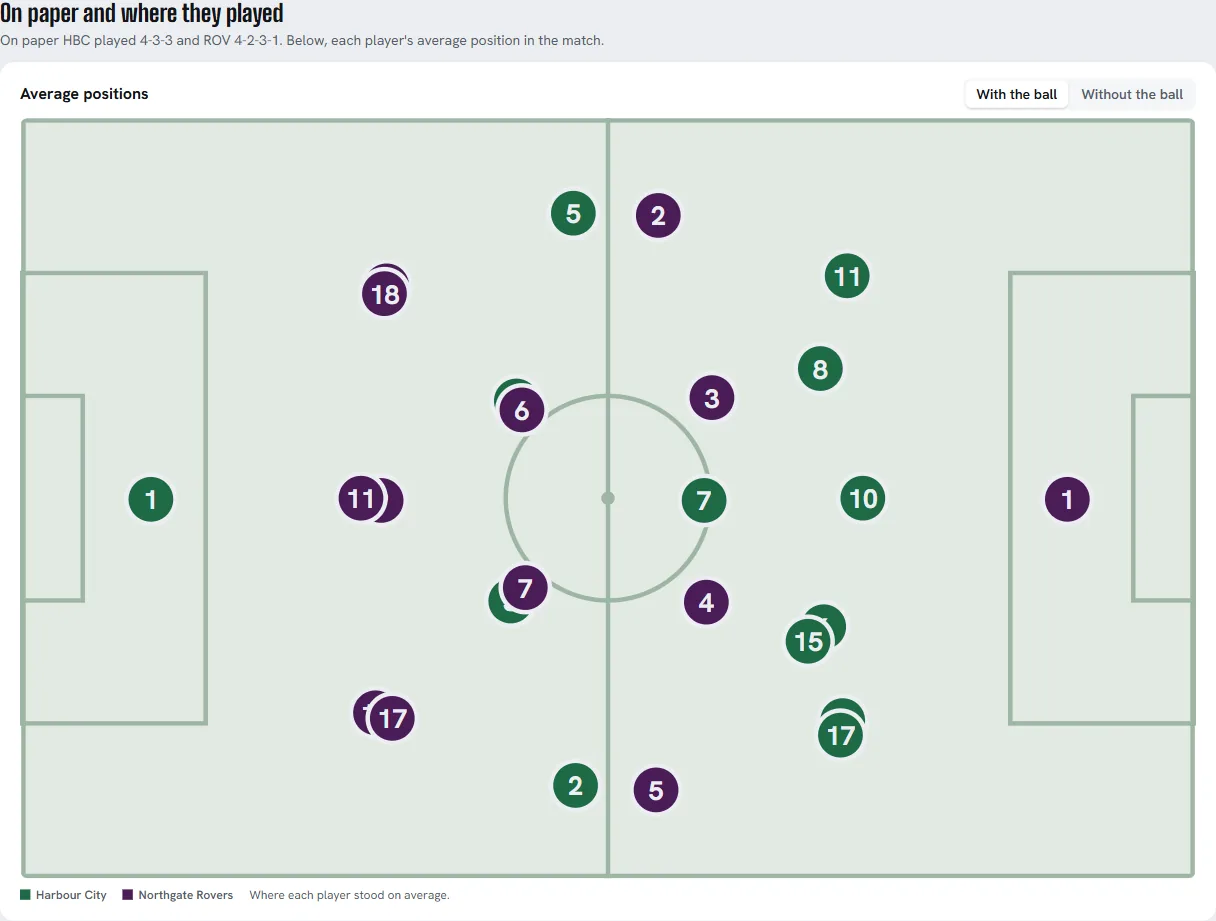
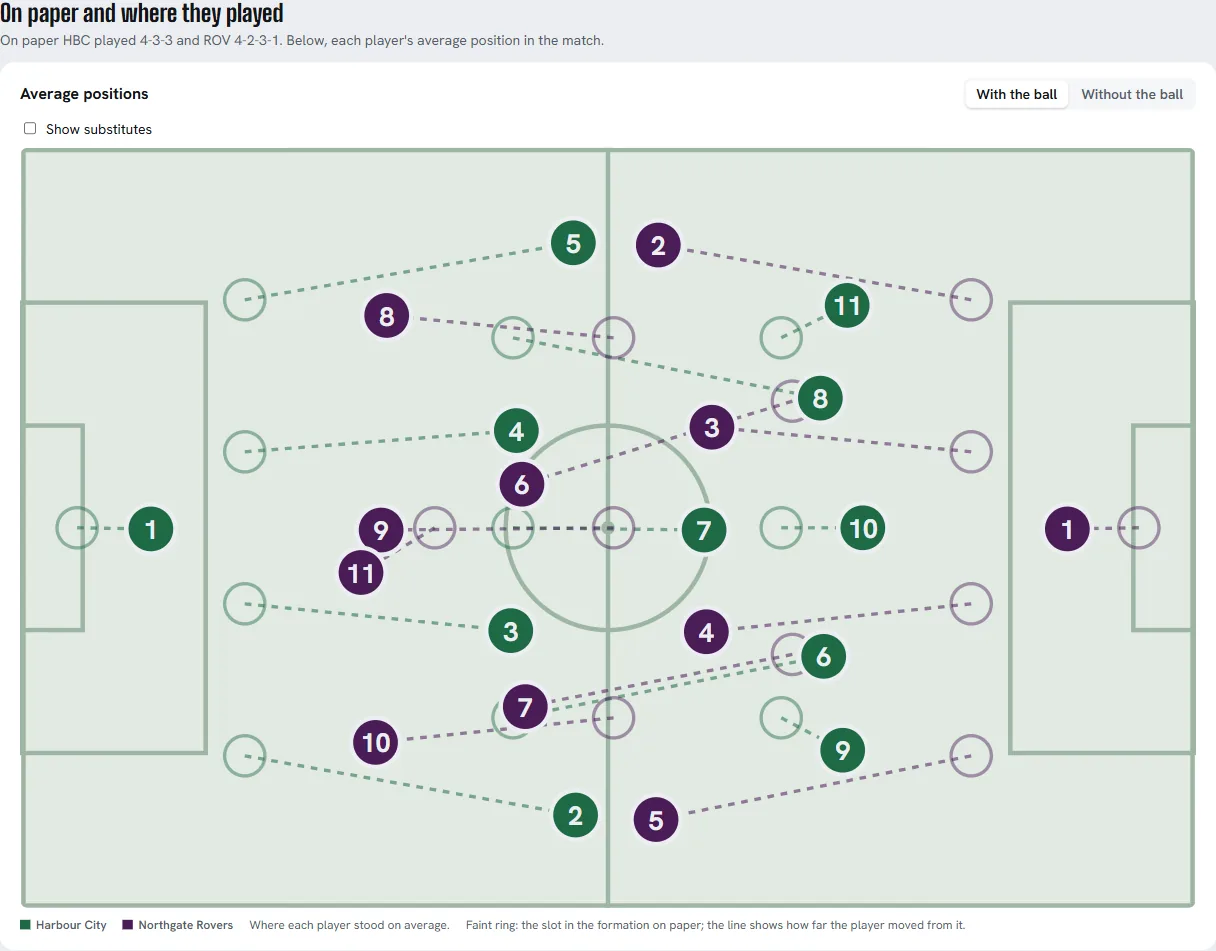
C18 C: paper vs actual: formation slots as faint rings joined to each starter, substitutes behind a switch, no dot hidden under another

diff --git a/apps/web/src/components/viz/AveragePositions.tsx b/apps/web/src/components/viz/AveragePositions.tsx
@@ -19,15 +19,33 @@ export type AveragePositionsProps = {
    *  would sit on top of the player he replaced and say little. */
   minSeconds?: number;
   focus?: string | null;
+  /** C18: the starting XIs. Given, the starters are always drawn and the substitutes only on a switch,
+   *  smaller and hollow, nudged off any dot they would cover. */
+  starters?: ReadonlySet<string>;
+  /** C18: each starter's slot in the formation on paper, in metres in the team's own half-frame
+   *  (attacking to the right), drawn as a faint ring joined to where the player actually stood. */
+  ghosts?: ReadonlyMap<string, readonly [number, number]>;
 };
 
 export default function AveragePositions({ data, squads, teamNames, phase: start = "in_possession", minSeconds = 1800,
-                                           focus = null }: AveragePositionsProps) {
+                                           focus = null, starters, ghosts }: AveragePositionsProps) {
   const { t } = usePrefs();
   const [phase, setPhase] = useState<Phase>(start);
+  const [subs, setSubs] = useState(false);
   const who = whoFrom(squads);
   const names = teamNames ?? { home: t("viz.home"), away: t("viz.away") };
-  const shown = data.players.filter((p) => p.seconds >= minSeconds && p[phase]);
+  const isSub = (id: string) => !!starters && !starters.has(id);
+  const shown = data.players.filter((p) => p[phase] && (starters
+    ? starters.has(p.player_id) || (subs && p.seconds >= minSeconds)
+    : p.seconds >= minSeconds));
+  // Where each dot goes. With the line-ups given (C18), a dot that would cover one already placed
+  // moves down until it is clear, starters first, so no number hides behind another.
+  const at = new Map<string, [number, number]>();
+  for (const p of [...shown].sort((a, b) => Number(isSub(a.player_id)) - Number(isSub(b.player_id)))) {
+    let [x, y] = toPx(p[phase]!.x, p[phase]!.y, p.team === "away");
+    for (let tries = 0; starters && tries < 4 && [...at.values()].some(([ox, oy]) => Math.hypot(x - ox, y - oy) < 20); tries++) y += 20;
+    at.set(p.player_id, [x, y]);
+  }
   return (
     <figure className="viz viz-pos">
       <figcaption>
@@ -40,11 +58,35 @@ export default function AveragePositions({ data, squads, teamNames, phase: start
           ))}
         </span>
       </figcaption>
+      {starters && (
+        <label className="viz-subs">
+          <input type="checkbox" checked={subs} onChange={(e) => setSubs(e.target.checked)} /> {t("viz.pos.subs")}
+        </label>
+      )}
       <VizPitch label={t("viz.pos.label", { home: names.home, away: names.away })}>
+        {ghosts && shown.filter((p) => ghosts.has(p.player_id)).map((p) => {
+          const [gx, gy] = ghosts.get(p.player_id)!;
+          const [x0, y0] = toPx(gx, gy, p.team === "away");
+          const [x, y] = at.get(p.player_id)!;
+          return (
+            <g key={`g-${p.player_id}`} className="viz-ghost" aria-hidden="true">
+              <line x1={x0} y1={y0} x2={x} y2={y} stroke={teamColor(p.team)} />
+              <circle cx={x0} cy={y0} r={9} stroke={teamColor(p.team)} />
+            </g>
+          );
+        })}
         {shown.map((p) => {
-          const pt = p[phase]!;
-          const [x, y] = toPx(pt.x, pt.y, p.team === "away");
+          const [x, y] = at.get(p.player_id)!;
           const w = who(p.player_id);
+          if (isSub(p.player_id)) {
+            return (
+              <g key={p.player_id} className="viz-node sub">
+                <title>{w.name}</title>
+                <circle cx={x} cy={y} r={8} fill="var(--pv-paper)" stroke={teamColor(p.team)} strokeWidth={2} />
+                <text x={x} y={y + 3.5} textAnchor="middle" fontSize={9} fontWeight={700} fill={teamColor(p.team)}>{w.shirt}</text>
+              </g>
+            );
+          }
           return (
             <g key={p.player_id} className={`viz-node${p.player_id === focus ? " on" : ""}`}>
               <title>{w.name}</title>
@@ -60,6 +102,7 @@ export default function AveragePositions({ data, squads, teamNames, phase: start
         <span className="viz-side home">{names.home}</span>
         <span className="viz-side away">{names.away}</span>
         <span>{t("viz.pos.legend")}</span>
+        {ghosts && <span className="viz-ghost-key">{t("viz.pos.ghostKey")}</span>}
       </p>
     </figure>
   );

diff --git a/apps/web/src/pages/match/LineupsTab.tsx b/apps/web/src/pages/match/LineupsTab.tsx
@@ -104,6 +104,29 @@ export function LineupsTab() {
   );
 }
 
+const SIDES = ["home", "away"] as const;
+
+/**
+ * Each starter's slot in the formation on paper ("4-2-3-1": the keeper, then one row per number, back
+ * to front, each row left to right), in metres in the team's own frame, attacking to the right, as
+ * the average positions are. Empty when the sheet's slots do not add up to its formation.
+ */
+export function paperSlots(sheet: { formation: string; starters: readonly { player_id: string; slot: number }[] }): Map<string, [number, number]> {
+  const rows = [1, ...sheet.formation.split("-").map(Number)];
+  const slots = [...sheet.starters].sort((a, b) => a.slot - b.slot);
+  const out = new Map<string, [number, number]>();
+  if (rows.some((n) => !Number.isInteger(n) || n < 1) || rows.reduce((n, r) => n + r, 0) !== slots.length) return out;
+  let i = 0;
+  rows.forEach((count, row) => {
+    for (let k = 0; k < count; k++, i++) {
+      const depth = row === 0 ? 5 : 20 + ((row - 1) * 48) / Math.max(1, rows.length - 2);
+      // The team's left is the far touchline when it attacks to the right.
+      out.set(slots[i].player_id, [depth, 68 - (68 * (k + 1)) / (count + 1)]);
+    }
+  });
+  return out;
+}
+
 /**
  * C18 (#366): the analyst's "on paper vs where they played": each side's formation from the team
  * sheet beside the average positions the pictures API gives (the same picture as the Stats tab's).
@@ -113,6 +136,8 @@ function PaperVsActual() {
   const { match, teams, sheets, squads } = useMatch();
   const pos = useAveragePositions(match.match_id, { stepS: 60 });
   const names = { home: teams.home.name, away: teams.away.name };
+  const starters = new Set(SIDES.flatMap((s) => sheets?.[s].starters.map((p) => p.player_id) ?? []));
+  const ghosts = new Map(SIDES.flatMap((s) => (sheets ? [...paperSlots(sheets[s])] : [])));
   return (
     <section className="post-sec" aria-labelledby="lu-real-hd" id="lu-real">
       <header className="sec-hd">
@@ -123,7 +148,7 @@ function PaperVsActual() {
         })}</p>
       </header>
       <div className="card lu-real">
-        <VizBox state={pos}>{(d) => <AveragePositions data={d} squads={squads} teamNames={names} />}</VizBox>
+        <VizBox state={pos}>{(d) => <AveragePositions data={d} squads={squads} teamNames={names} starters={starters} ghosts={ghosts} />}</VizBox>
       </div>
     </section>
   );

diff --git a/apps/web/src/pages/lineups-paper.test.ts b/apps/web/src/pages/lineups-paper.test.ts
@@ -1,0 +1,21 @@
+// C18 (#366): the formation on paper for "paper vs actual": the keeper, then one row per number,
+// back to front, each row from the team's left (the far touchline when it attacks to the right).
+import { describe, expect, it } from "vitest";
+import { paperSlots } from "./match/LineupsTab";
+
+const sheet = (formation: string, n: number) => ({ formation, starters: Array.from({ length: n }, (_, i) => ({ player_id: `p${i + 1}`, slot: i + 1 })) });
+
+describe("paperSlots", () => {
+  it("places a 4-3-3 from the keeper forward, left to right", () => {
+    const s = paperSlots(sheet("4-3-3", 11));
+    expect(s.size).toBe(11);
+    expect(s.get("p1")).toEqual([5, 34]);
+    // The left-back is nearer the far touchline than the right-back; the forwards are furthest up.
+    expect(s.get("p2")![1]).toBeGreaterThan(s.get("p5")![1]);
+    expect(s.get("p9")![0]).toBeGreaterThan(s.get("p6")![0]);
+  });
+  it("gives nothing when the sheet does not add up to its formation", () => {
+    expect(paperSlots(sheet("4-4-2", 10)).size).toBe(0);
+    expect(paperSlots(sheet("odd", 11)).size).toBe(0);
+  });
+});

diff --git a/apps/web/src/styles/viz.css b/apps/web/src/styles/viz.css
@@ -38,3 +38,7 @@
 .viz-shirt { display: inline-block; min-width: 18px; margin-right: 5px; padding: 0 3px; text-align: center; color: var(--pv-paper); }
 .viz-shirt.home { background: var(--pv-home); }
 .viz-shirt.away { background: var(--pv-away); }
+/* C18: the formation on paper as faint rings, joined to where each starter actually stood. */
+.viz-ghost line { stroke-width: 1.5; stroke-dasharray: 3 3; opacity: .55; }
+.viz-ghost circle { fill: none; stroke-width: 1.5; opacity: .45; }
+.viz-subs { display: inline-flex; align-items: center; gap: 6px; font-size: var(--pv-fs-sm); justify-self: start; cursor: pointer; }

diff --git a/apps/web/src/i18n/messages/es.ts b/apps/web/src/i18n/messages/es.ts
@@ -1271,4 +1271,6 @@ export const es: Messages = {
   "plan.real.width.def": "Lo que mostró el partido: anchura media del equipo",
   "lu.realTitle": "Sobre el papel y donde jugaron",
   "lu.realNote": "Sobre el papel {home} jugó {hf} y {away} {af}. Debajo, la posición media de cada jugador en el partido.",
+  "viz.pos.subs": "Mostrar suplentes",
+  "viz.pos.ghostKey": "Anillo tenue: el puesto en la formación sobre el papel; la línea muestra cuánto se alejó el jugador.",
 };

diff --git a/apps/web/src/i18n/messages/en.ts b/apps/web/src/i18n/messages/en.ts
@@ -1270,4 +1270,6 @@ export const en = {
   "plan.real.width.def": "What the match showed: the team's average width",
   "lu.realTitle": "On paper and where they played",
   "lu.realNote": "On paper {home} played {hf} and {away} {af}. Below, each player's average position in the match.",
+  "viz.pos.subs": "Show substitutes",
+  "viz.pos.ghostKey": "Faint ring: the slot in the formation on paper; the line shows how far the player moved from it.",
 };

diff --git a/apps/web/src/i18n/messages/zh.ts b/apps/web/src/i18n/messages/zh.ts
@@ -1269,4 +1269,6 @@ export const zh: Messages = {
   "plan.real.width.def": "比赛里的实际数字：全队的平均宽度",
   "lu.realTitle": "纸面阵型和实际站位",
   "lu.realNote": "纸面上 {home} 是 {hf}，{away} 是 {af}。下面是每名球员本场的平均位置。",
+  "viz.pos.subs": "显示替补",
+  "viz.pos.ghostKey": "淡色圆圈：纸面阵型里的位置；连线表示球员实际偏离了多远。",
 };
